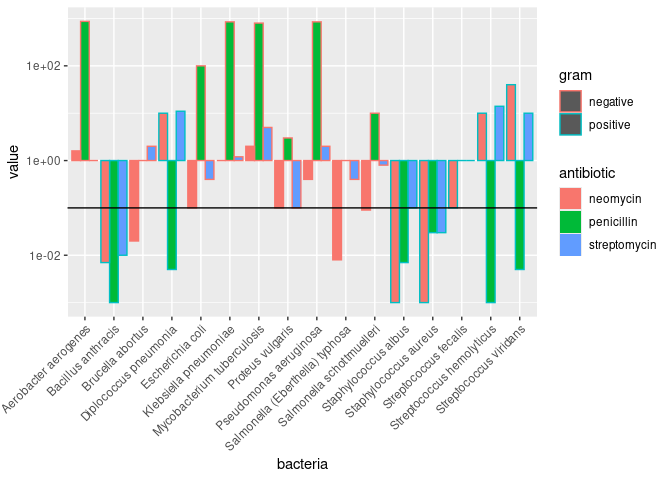
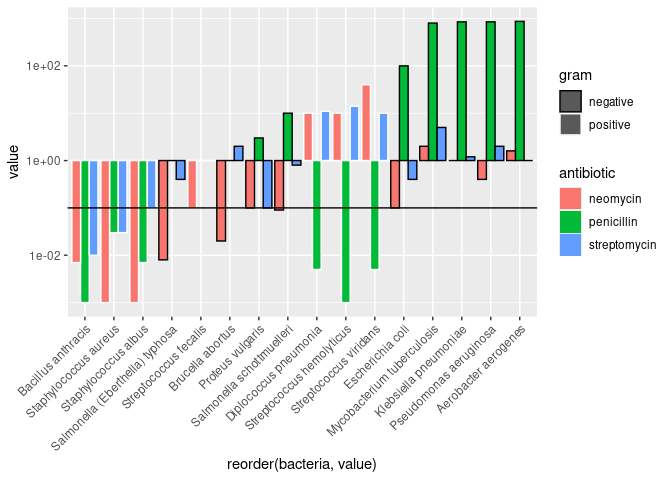
complete challenge 5 revisions

Changed region(s): [[0.0938, 0.0312, 0.875, 0.6562], [0.0, 0.6875, 0.7812, 1.0]]

diff --git a/challenges/c05-antibiotics-assignment.md b/challenges/c05-antibiotics-assignment.md
@@ -157,6 +157,7 @@ is Gram positive or negative.
 
 ``` r
 # WRITE YOUR CODE HERE
+library(tidytext)
 
 df_antibiotics %>%
   pivot_longer(
@@ -164,15 +165,21 @@ df_antibiotics %>%
     names_to = "antibiotic",
     values_to = "value"
   ) %>%
-  ggplot(aes(x = antibiotic, y = value, fill = gram)) +
+  mutate(
+    bacteria = reorder_within(bacteria, value, antibiotic)
+  ) %>%
+  ggplot(aes(x = bacteria, y = value, fill = gram)) +
   geom_col() +
-  facet_wrap(vars(bacteria), scales = "free_y") +
+  facet_wrap(~antibiotic, scales = "free_x") +
+  scale_x_reordered() +
   theme(
     axis.text.x = element_text(
       angle = 45,
       hjust = 1
     )
-  )
+  ) +
+  scale_y_log10() +
+  geom_hline(yintercept = 0.1)
 ```
 
 ![](c05-antibiotics-assignment_files/figure-gfm/q1.1-1.png)<!-- -->
@@ -196,8 +203,9 @@ df_antibiotics %>%
     names_to = "antibiotic",
     values_to = "value"
   ) %>%
-  ggplot(aes(x = bacteria, y = value, fill = antibiotic, color = gram)) +
+  ggplot(aes(x = reorder(bacteria, value), y = value, fill = antibiotic, color = gram)) +
   geom_col(position = "dodge") +
+  scale_color_manual(values = c("negative" = "black", "positive" = "white")) +
   theme(
     axis.text.x = element_text(
       angle = 45,
@@ -325,12 +333,13 @@ opportunity to think about why this is.**
   effectiveness against it.
 
 - From visual 3, neomycin appears to be especially effective against the
-  stapylococcus genus and ineffective against streptococcus. Penicillin
-  is especially effective against stapylococcus and streptococcus (and
-  bacillus potentially, but there is only one data point for that
-  genus), and it is ineffective against several different genii.
-  Streptomycin is effective against bacillus (again just one data point)
-  and ineffective against streptococcus.
+  stapylococcus genus (effective against 2/2 strains) and ineffective
+  against streptococcus (effective against 1/3 strains). Penicillin is
+  especially effective against stapylococcus (2/2 strains) and
+  streptococcus (2/3 strains) (and bacillus potentially, but there is
+  only one data point for that genus), and it is ineffective against
+  several different genii. Streptomycin is effective against bacillus
+  (again just one data point) and ineffective against streptococcus.
 
 Which of your visuals above (1 through 5) is **most effective** at
 helping to answer this question? Why?
